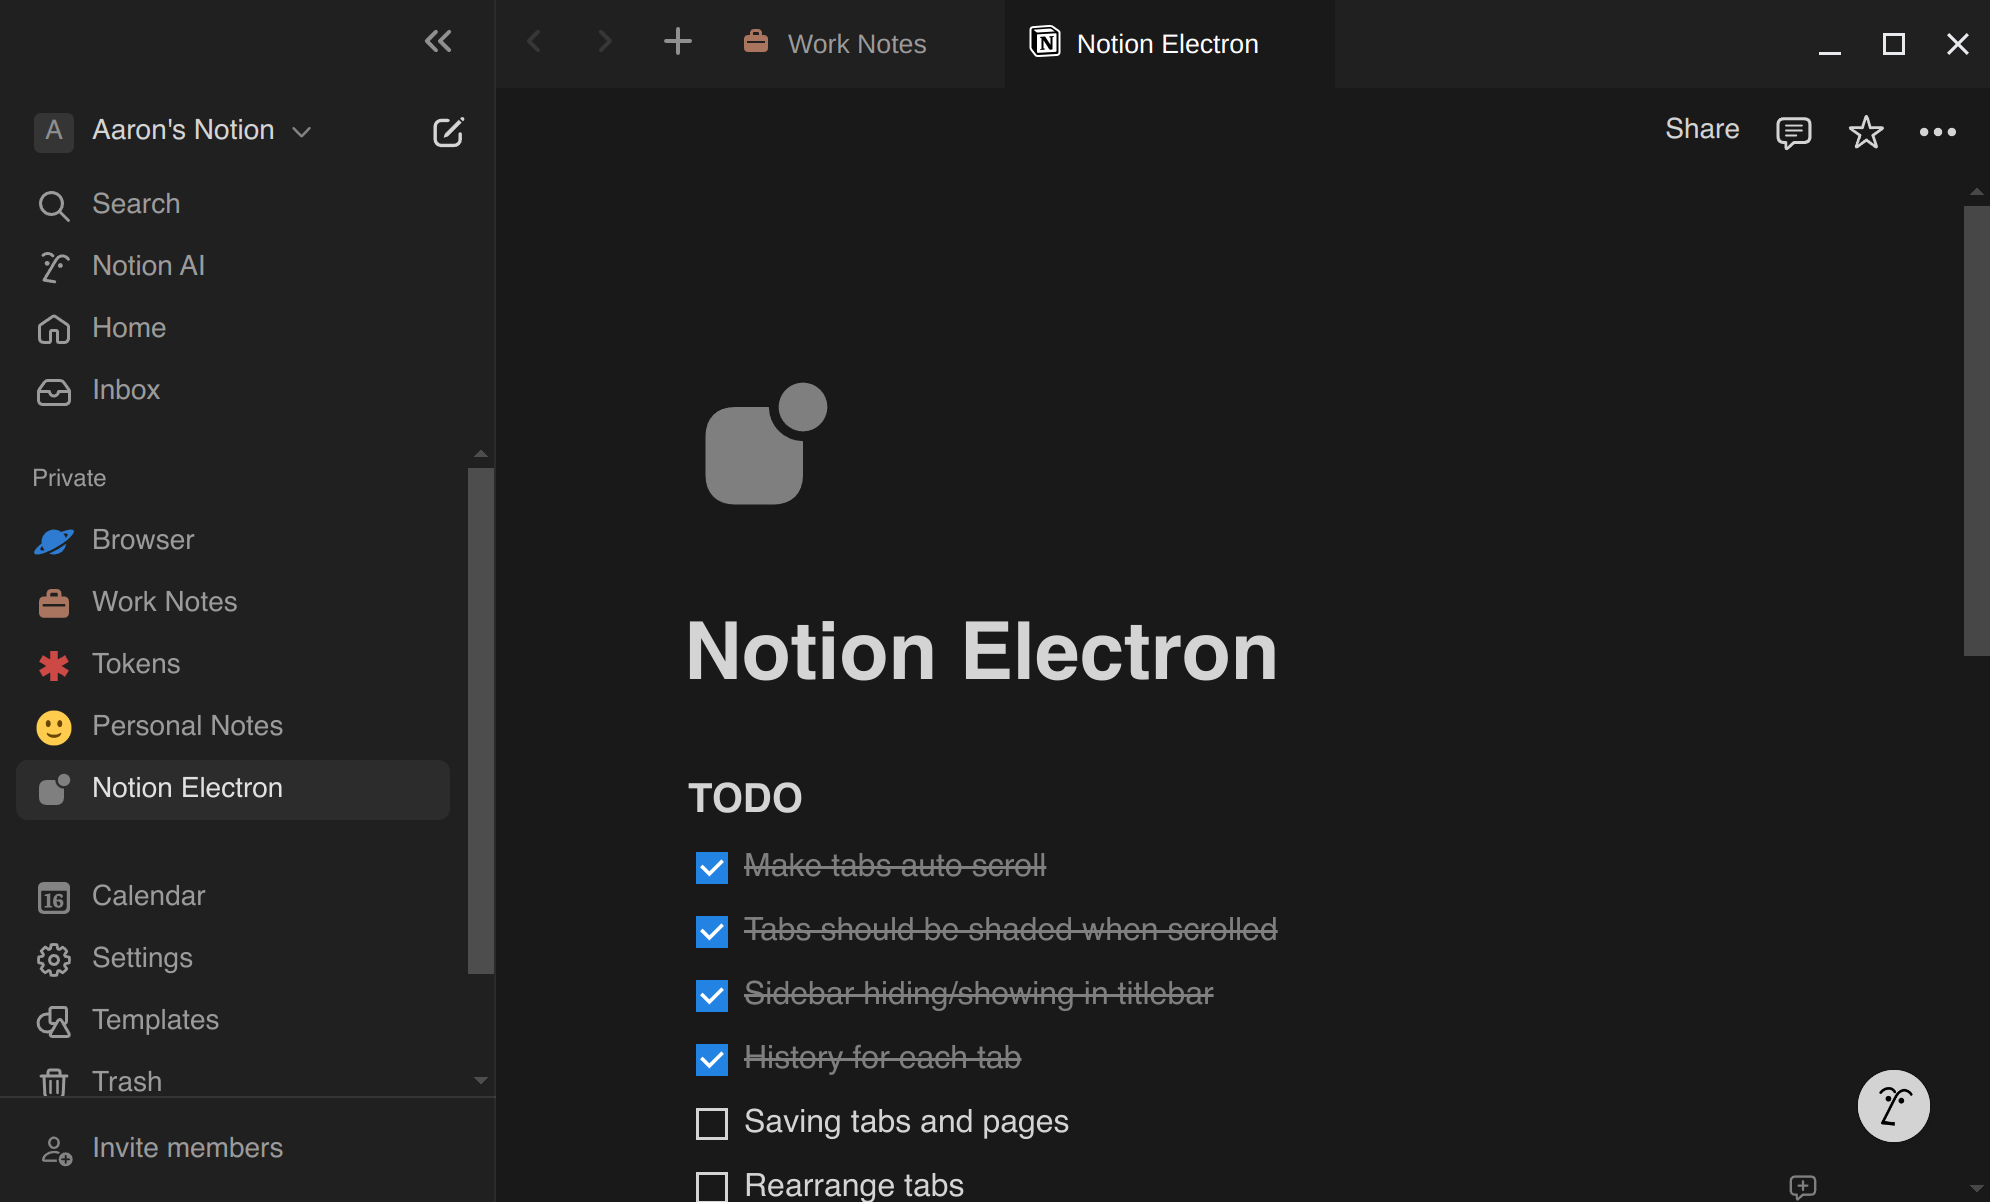
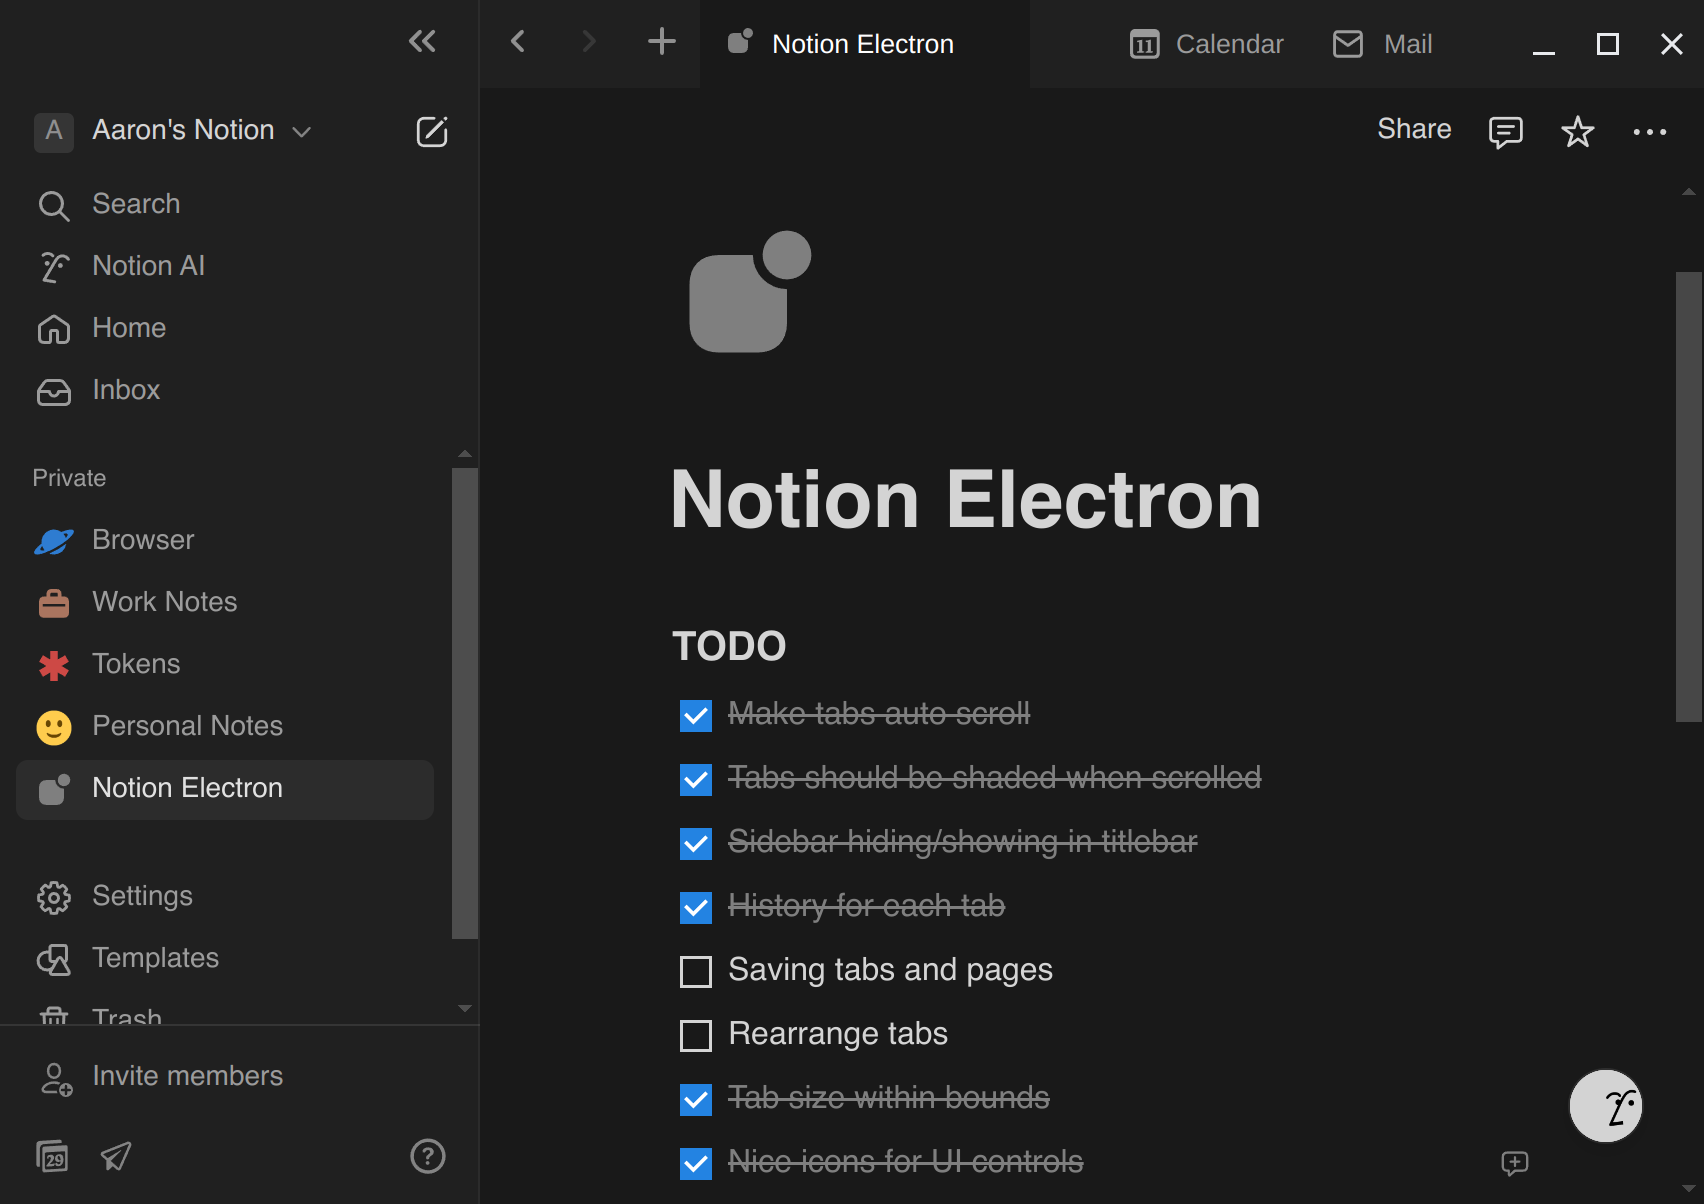
Updated Readme

diff --git a/README.md b/README.md
@@ -1,16 +1,16 @@
 # Notion Electron – Unofficial Notion Client for Linux
 
-Notion Electron is an unofficial desktop application for Notion, built using Electron. This project aims to provide a seamless and native-like experience for Notion users on desktop Linux (tested on Fedora 41).
+Notion Electron is an unofficial desktop application for Notion, built using Electron. This project aims to provide a seamless and native-like experience for Notion users on desktop Linux (tested on Fedora 41). This app includes dedicated tabs for Notion Calendar and Notion Mail.
 
 ![Screenshot](./docs/screenshot1.png)
 
 ## Installation
 
-### [<img src="./docs/download-appimage-banner.svg" alt="Download" />](https://github.com/anechunaev/notion-electron/releases/download/v1.6.3/notion-electron-1.6.3.x86_64.AppImage)
+### [<img src="./docs/download-appimage-banner.svg" alt="Download" />](https://github.com/anechunaev/notion-electron/releases/download/v1.7.0/notion-electron-1.7.0.x86_64.AppImage)
 
-- **[Ubuntu / Debian `.deb` package (x64)](https://github.com/anechunaev/notion-electron/releases/download/v1.6.3/notion-electron-1.6.3.amd64.deb)**
-- **[Fedora / CentOS / OpenSUSE `.rpm` package (x64)](https://github.com/anechunaev/notion-electron/releases/download/v1.6.3/notion-electron-1.6.3.x86_64.rpm)**
-- **[Any Distribution `.AppImage` (x64)](https://github.com/anechunaev/notion-electron/releases/download/v1.6.3/notion-electron-1.6.3.x86_64.AppImage)**
+- **[Ubuntu / Debian `.deb` package (x64)](https://github.com/anechunaev/notion-electron/releases/download/v1.7.0/notion-electron-1.7.0.amd64.deb)**
+- **[Fedora / CentOS / OpenSUSE `.rpm` package (x64)](https://github.com/anechunaev/notion-electron/releases/download/v1.7.0/notion-electron-1.7.0.x86_64.rpm)**
+- **[Any Distribution `.AppImage` (x64)](https://github.com/anechunaev/notion-electron/releases/download/v1.7.0/notion-electron-1.7.0.x86_64.AppImage)**
 
 ### Manual Installation
 
